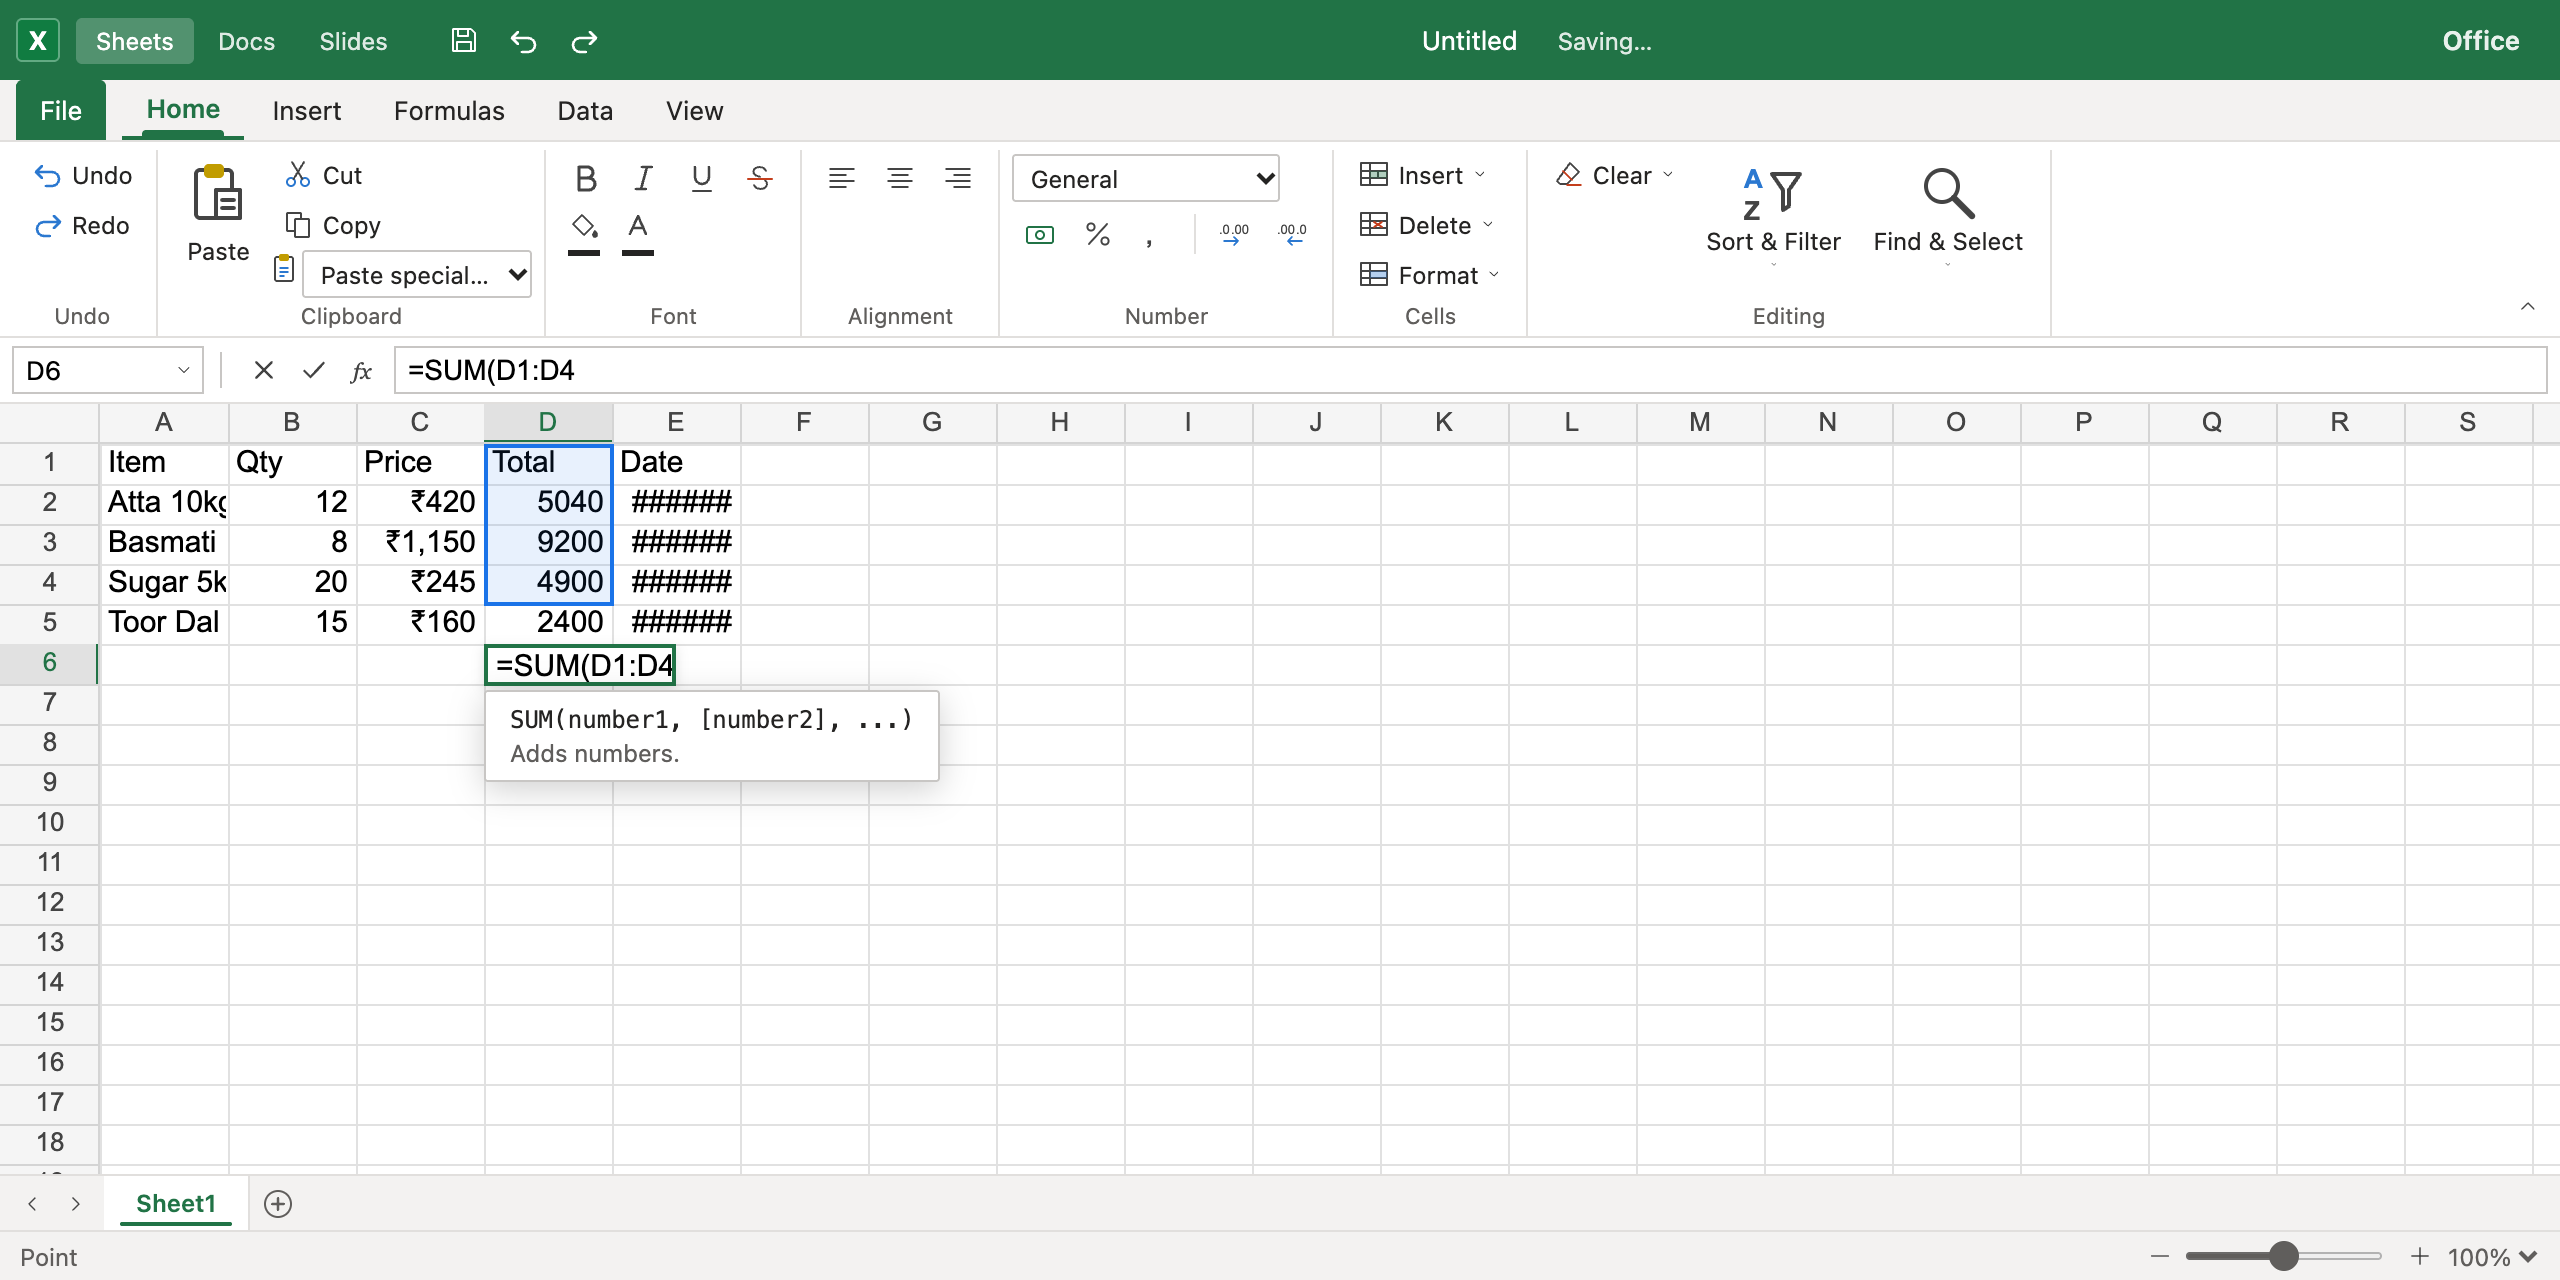
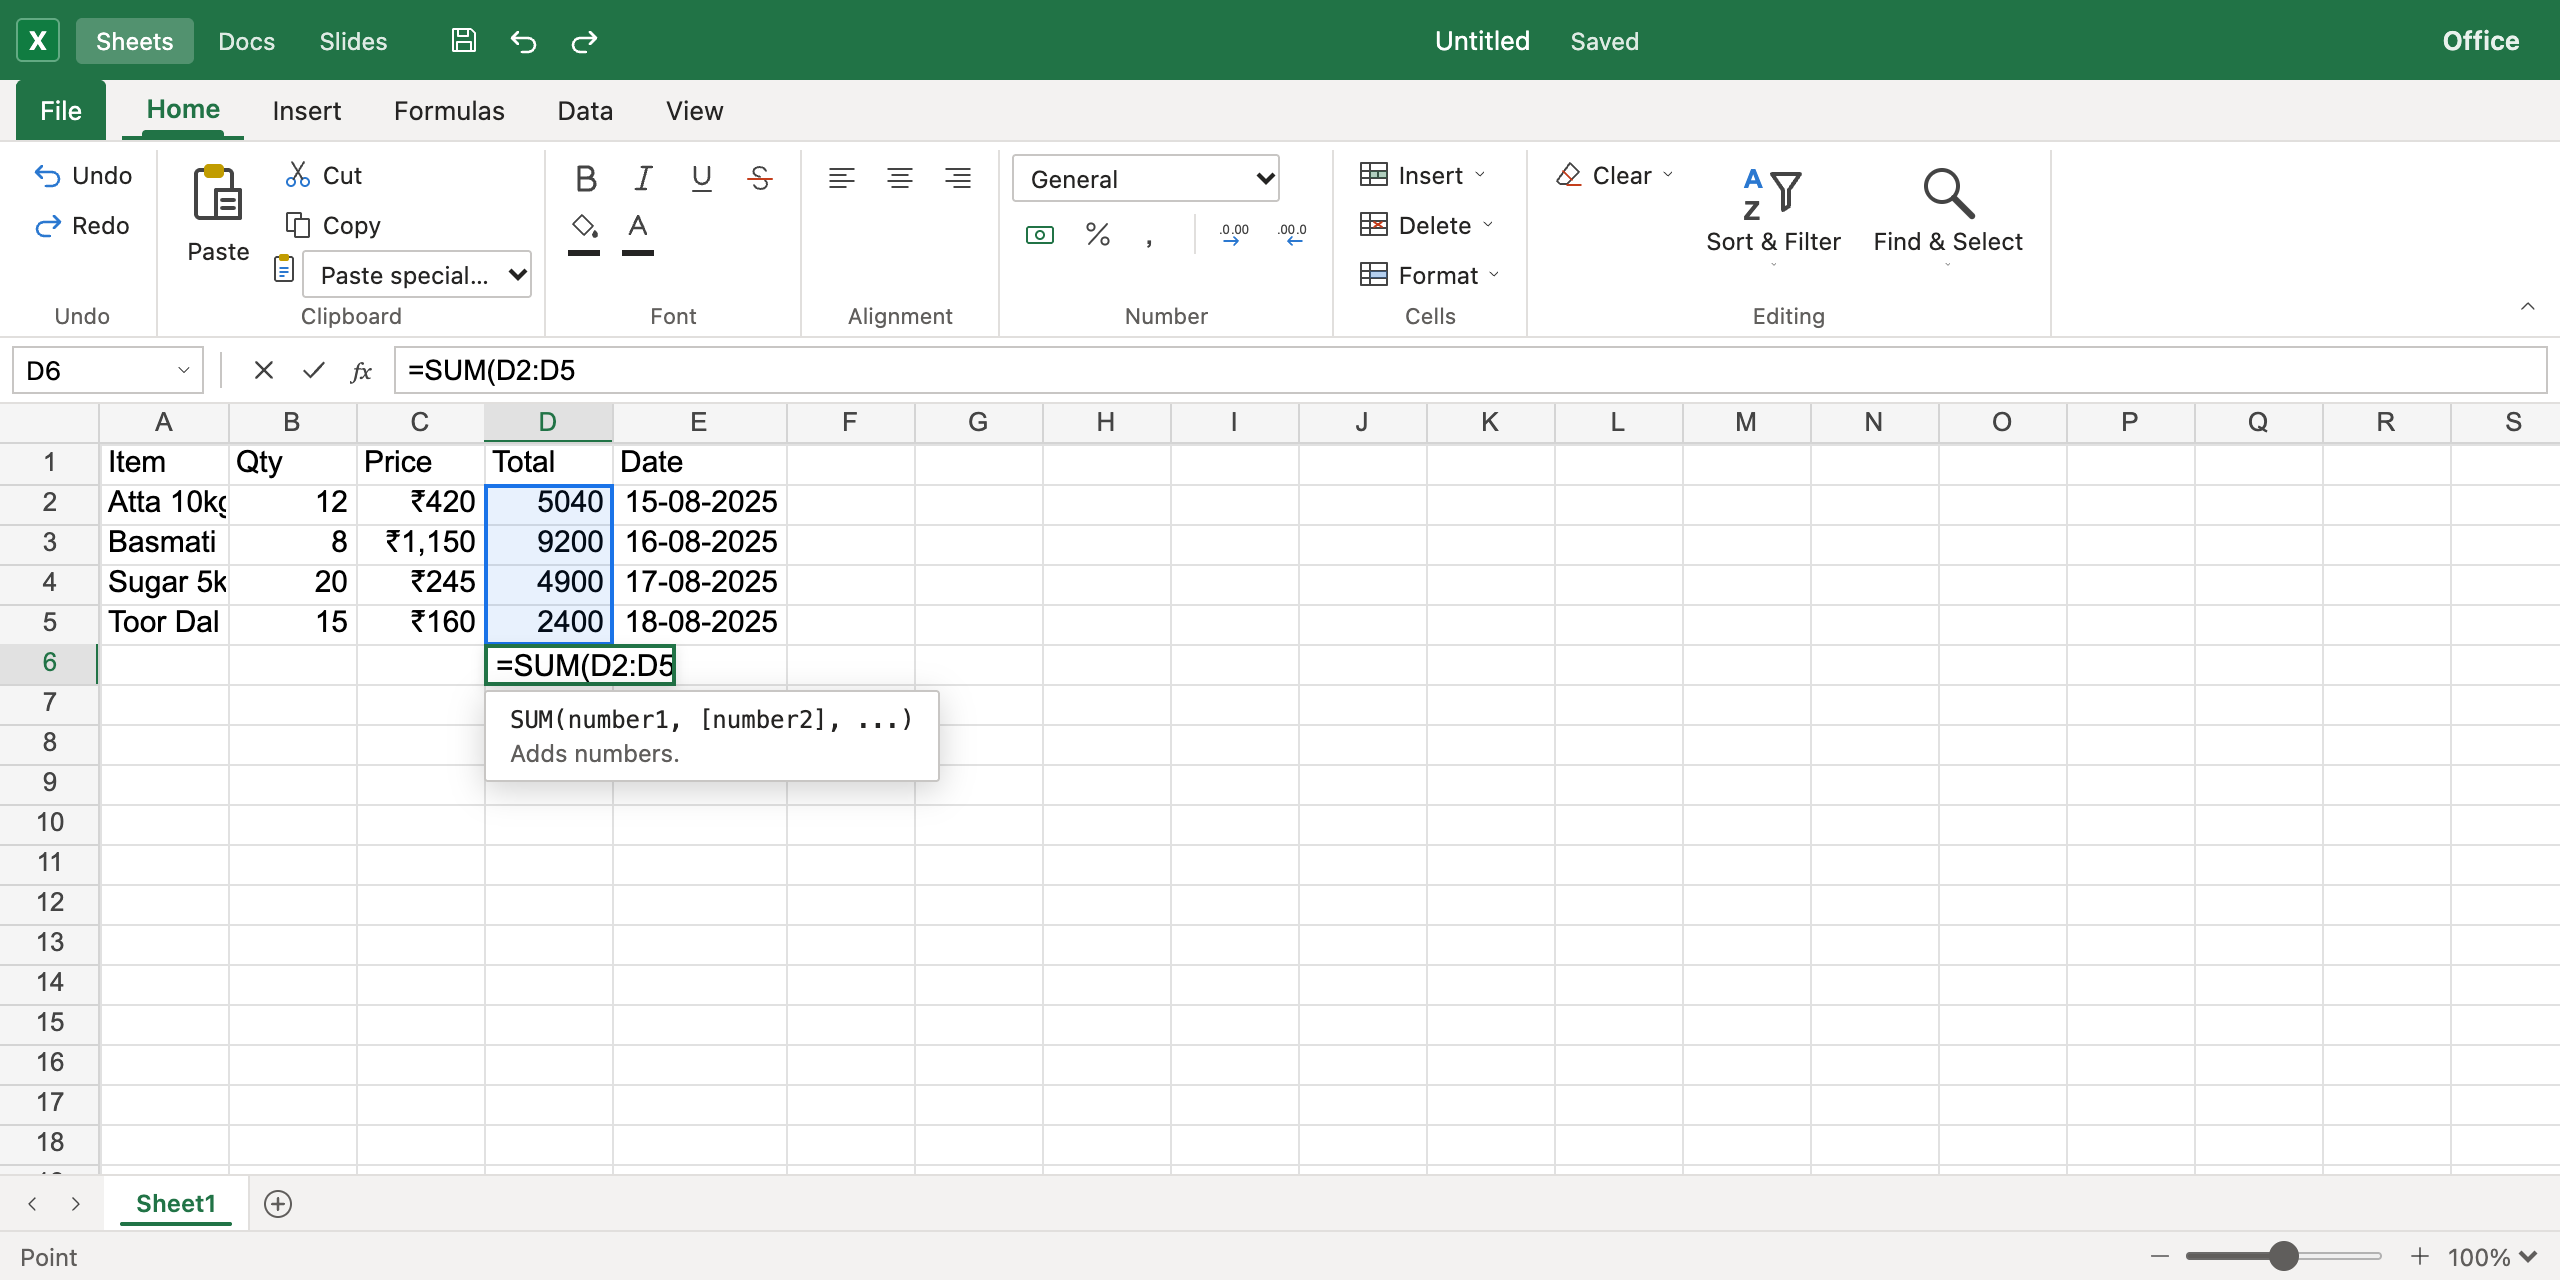
Widen default-width columns for numbers and dates that don't fit

diff --git a/apps/web/src/sheets/SheetsApp.tsx b/apps/web/src/sheets/SheetsApp.tsx
@@ -4,7 +4,7 @@
 // counter that tells the grid to repaint.
 
 import { useEffect, useLayoutEffect, useMemo, useRef, useState, type KeyboardEvent } from "react";
-import { SheetsDocument, functionList, parseStyle, type FunctionInfo } from "@office/engine";
+import { SheetsDocument, ValueKind, functionList, parseStyle, type FunctionInfo } from "@office/engine";
 import { Ribbon, type RibbonTab } from "@office/ui";
 import { download, pickFile } from "../files";
 import { clearDraft, loadDraft, saveDraft } from "./autosave";
@@ -34,7 +34,7 @@ import { SheetTabs } from "./SheetTabs";
 import type { EditState } from "./types";
 import { MOD_KEY, insertFunctionText, statusMode, zoomToFit } from "./chrome";
 import { InsertFunctionDialog } from "./InsertFunctionDialog";
-import { ColumnLayout } from "./layout";
+import { ColumnLayout, DEFAULT_COL_WIDTH } from "./layout";
 import { StatusBar } from "./StatusBar";
 import { WorkbookTitle, type SaveStatus } from "./WorkbookTitle";
 import { Icon } from "@office/ui";
@@ -154,10 +154,25 @@ export function SheetsApp() {
     const value = closeParens(editing.draft);
     if (value !== doc.input(sheet, row, col)) {
       doc.setInputs(sheet, Uint32Array.of(row), Uint32Array.of(col), [value]);
+      widenForNumber(row, col);
       changed();
     }
     setEditing(null);
     if (dRow || dCol) setSelection(moveSelection(selection, dRow, dCol, false));
+  }
+
+  /**
+   * Like Excel: when a number or date typed into a default-width column
+   * doesn't fit, the column widens instead of showing ####.
+   */
+  function widenForNumber(r: number, c: number) {
+    if (doc.kindBlock(sheet, r, c, 1, 1)[0] !== ValueKind.Number) return;
+    const widths = doc.columnWidths(sheet);
+    for (let i = 0; i < widths.length; i += 2) if (widths[i] === c) return; // user-set width: keep it
+    const ctx = document.createElement("canvas").getContext("2d")!;
+    ctx.font = fontFor(parseStyle(doc.styleBlock(sheet, r, c, 1, 1)[0]));
+    const needed = Math.ceil(ctx.measureText(doc.displayBlock(sheet, r, c, 1, 1)[0]).width + 10);
+    if (needed > DEFAULT_COL_WIDTH) doc.setColumnWidth(sheet, c, c, needed);
   }
 
   /** Ctrl+Enter: put the entry in every selected cell; formulas shift like a fill. */
